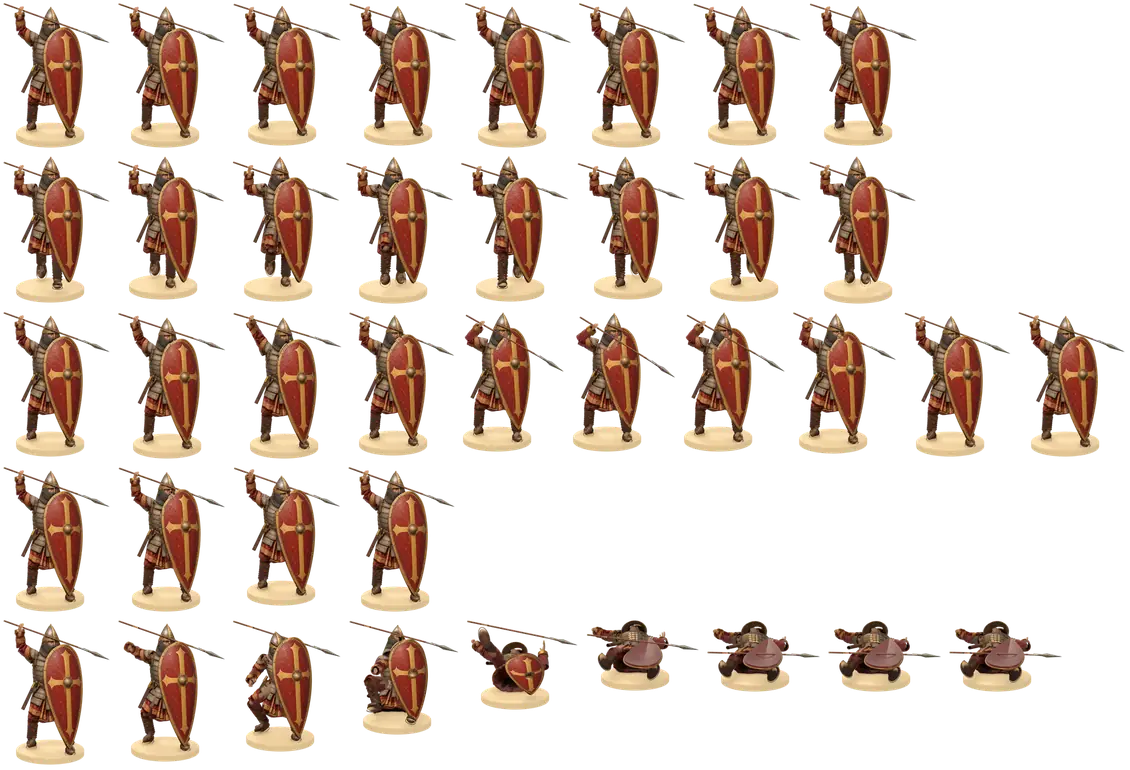
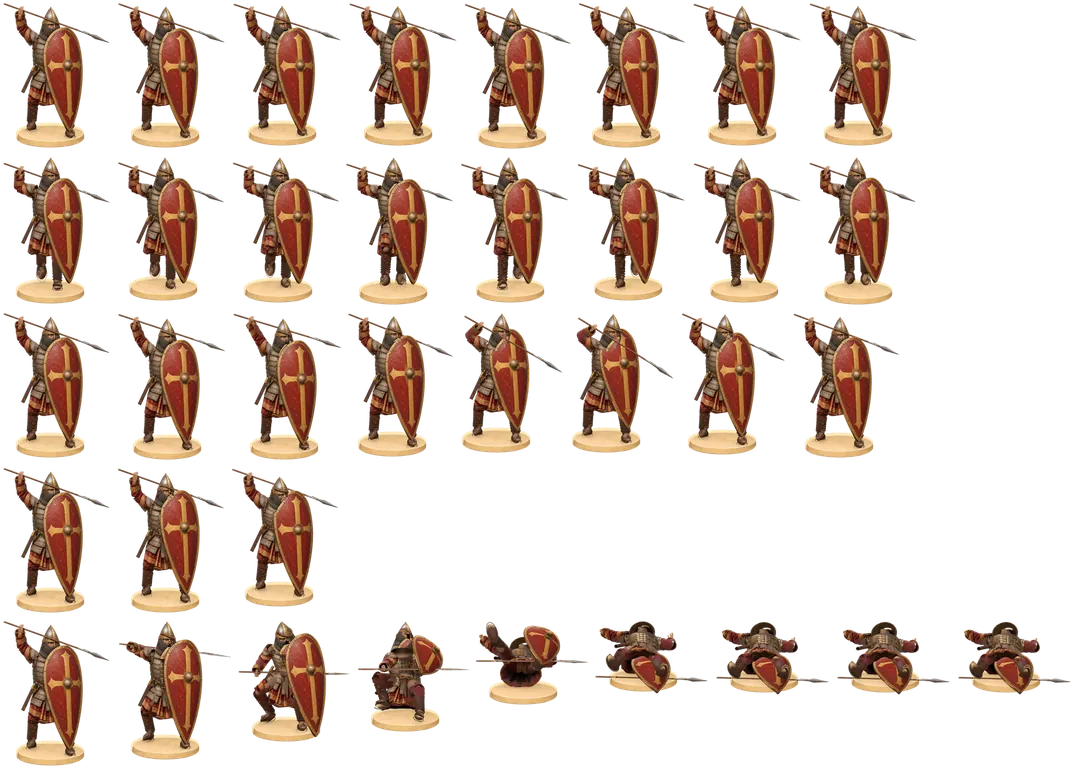
Codex task unit-anim-3d-tagmatic-soldier: work left uncommitted in the sandbox

diff --git a/tools/art/anim3d/units/tagmatic-soldier/build.py b/tools/art/anim3d/units/tagmatic-soldier/build.py
@@ -91,6 +91,18 @@ def linear(x):return x/12.92 if x<=.04045 else ((x+.055)/1.055)**2.4
 stone=mat('cream limestone E9CFA0',tuple(linear(x/255) for x in (233,207,160)),0,.85)
 
 body.data.materials.clear();body.data.materials.append(skin)
+# Keep continuous anatomical under-clothing at bent sleeve/trouser joints.
+# Real hands/head retain skin; the fitted outer garments still supply folds.
+body.data.materials.append(red);body.data.materials.append(leather)
+group_names={g.index:g.name for g in body.vertex_groups}
+for face in body.data.polygons:
+ weights={}
+ for index in face.vertices:
+  for g in body.data.vertices[index].groups:
+   name=group_names[g.group];weights[name]=weights.get(name,0)+g.weight
+ dominant=max(weights,key=weights.get) if weights else ''
+ if dominant.startswith(('upperarm','lowerarm','thigh','calf','spine','pelvis','clavicle')):face.material_index=1
+ elif dominant.startswith(('foot','ball')):face.material_index=2
 # Rest stance landmarks: rear leg braced left, near foot under pointed shield.
 limb('thigh_r','calf_r',(-.39,.17,.28),screen(88,169,.07));limb('thigh_l','calf_l',(.20,-.20,.29),screen(143,172,.15))
 for s in ['l','r']:aim('foot_'+s,(0,-1,-.12));aim('ball_'+s,(0,-1,0))
@@ -104,6 +116,17 @@ for name in ['thumb_01_r','thumb_02_r','thumb_03_r']:
 for p in rig.pose.bones:
  if p.name.endswith('_r') and any(p.name.startswith(n) for n in ['index','middle','ring','pinky']):
   p.rotation_mode='XYZ';p.rotation_euler.x=.85
+bpy.context.view_layer.update()
+# Fit the grip in depth as well as screen space before building the sleeves.
+# The old hand was 14 cm behind the shaft: invisible at rest, obvious on a fall.
+hand=rig.pose.bones['hand_r'];hand_matrix=hand.matrix.copy()
+palm=rig.matrix_world@hand.head.lerp(hand.tail,.45)
+shaft_a=screen(43,14,.27);shaft_b=screen(177,62,.27);axis=(shaft_b-shaft_a).normalized()
+grip=shaft_a+axis*(palm-shaft_a).dot(axis)
+wrist=rig.matrix_world@rig.pose.bones['lowerarm_r'].tail
+pole=rig.matrix_world@rig.pose.bones['lowerarm_r'].head
+limb('upperarm_r','lowerarm_r',wrist+D*(grip-palm).dot(D),pole)
+hand_matrix.translation=rig.pose.bones['hand_r'].head;rig.pose.bones['hand_r'].matrix=hand_matrix
 bpy.context.view_layer.update()
 for f in body.data.polygons:f.use_smooth=True
 sub=body.modifiers.new('Anatomy smoothness','SUBSURF');sub.levels=1;sub.render_levels=1
@@ -263,7 +286,20 @@ for i in range(N):fs.append((0,1+i,1+(i+1)%N))
 for j in range(L-1):
  for i in range(N):q=1+j*N+i;n=1+j*N+(i+1)%N;fs.append((q,n,n+N,q+N))
 shield=solid(mesh('convex wooden kite shield',vs,fs,red),.035);bevel(shield,.003);attach(shield,'lowerarm_l')
+shield.data.materials.append(leather)
+shield.modifiers['Physical material thickness'].material_offset=1
+shield.modifiers['Physical material thickness'].material_offset_rim=1
 shield['projection_weight']=.95
+# Real enarmes: broad, bevelled leather ribbons on the concave back. Their
+# attachment and release are part of the shield assembly, including buckles.
+for k,y in enumerate((100,140)):
+ pts=[screen(x,y,.35+.10*(1-min(1,((Vector((x,y))-center).length/90))**2)-.044-.055*sin(pi*j/12)) for j,x in enumerate([124+29*j/12 for j in range(13)])]
+ verts=[p+V*dz for p in pts for dz in (-.022,.022)]
+ strap=bevel(solid(mesh('shield back enarme '+str(k),verts,[(2*j,2*j+1,2*j+3,2*j+2) for j in range(12)],leather),.009),.003)
+ attach(strap,'lowerarm_l')
+ for j in (0,12):attach(sphere('shield back strap rivet',pts[j]-D*.006,(.007,.007,.007),gold),'lowerarm_l')
+ buckle=[pts[3]+Vector((dx,0,0))+V*dz-D*.008 for dx,dz in [(-.018,-.028),(.018,-.028),(.018,.028),(-.018,.028),(-.018,-.028)]]
+ attach(curve('shield back buckle',buckle,.004,gold),'lowerarm_l')
 rim=curve('kite shield brass rim',[screen(*p,.357) for p in edge+[edge[0]]],.011,gold);attach(rim,'lowerarm_l')
 for i in range(0,N,4):attach(sphere('shield brass nail',screen(*edge[i],.37),(.0045,.0045,.0045),gold),'lowerarm_l')
 # Raised gold cross follows the domed shield; it is the supplied painting's device.
@@ -275,6 +311,7 @@ attach(sphere('shield boss',screen(145,113,.49),(.066,.036,.080),gold),'lowerarm
 # Spear in the raised hand, the broad iron leaf faces the camera.
 start=screen(43,14,.27);socket=screen(177,62,.27);tip=screen(213,77,.27)
 shaft=curve('overhand ash spear',[start,socket],.012,wood);attach(shaft,'hand_r')
+shaft['shaft_axis_local']=json.dumps([list(shaft.matrix_world.inverted()@p) for p in (start,socket)])
 attach(curve('iron spear socket',[socket-(tip-socket)*.20,socket+(tip-socket)*.25],.015,steel),'hand_r')
 axis=(tip-socket).normalized();wide=Vector((-axis.z,0,axis.x)).normalized();centerleaf=socket.lerp(tip,.35);v=[socket,centerleaf+wide*.034,tip,centerleaf-wide*.034,centerleaf+D*.014,centerleaf-D*.014]
 f=[(0,1,4),(1,2,4),(2,3,4),(3,0,4),(1,0,5),(2,1,5),(3,2,5),(0,3,5)]
@@ -294,7 +331,7 @@ sc.render.engine='CYCLES';sc.cycles.device='CPU';sc.cycles.samples=8;sc.cycles.u
 sc.render.resolution_x=sc.render.resolution_y=256;sc.render.resolution_percentage=100;sc.render.film_transparent=True;sc.render.image_settings.file_format='PNG';sc.render.image_settings.color_mode='RGBA'
 sc.view_settings.view_transform='Standard';sc.view_settings.look='None';sc.view_settings.exposure=0
 rig['neutral_pose']=json.dumps({p.name:[list(row) for row in p.matrix_basis] for p in rig.pose.bones});rig['source']='MPFB 2.0.18 CC0 anatomy and game_engine rig'
-sc['cream_target_srgb']='#E9CFA0';sc['unit_slug']='tagmatic-soldier';sc['round']=2
+sc['cream_target_srgb']='#E9CFA0';sc['unit_slug']='tagmatic-soldier';sc['round']=3
 # The physical stone keeps live contact shadows. Pigment is camera-only: it is
 # not a lamp and contains none of the source's feet or baked cast shadows.
 n=stone.node_tree.nodes;l=stone.node_tree.links;bs=n.get('Principled BSDF')
@@ -329,6 +366,17 @@ for o in list(sc.objects):
  for mod in list(o.modifiers):
   if mod.type in {'BEVEL','SOLIDIFY','SUBSURF'}:bpy.ops.object.modifier_apply(modifier=mod.name)
 sc['finished_surface_projection']=True
+# Frozen camera UVs on the real disc preserve the painted limestone. The
+# generated top contains no feet/shadows; moving contacts use fresh scene AO.
+bpy.context.view_layer.update()
+uv=base.data.uv_layers.new(name='StoneRestUV')
+for loop in base.data.loops:
+ q=world_to_camera_view(sc,sc.camera,base.matrix_world@base.data.vertices[loop.vertex_index].co)
+ uv.data[loop.index].uv=(q.x,q.y)
+uvn=n.new('ShaderNodeUVMap');uvn.uv_map='StoneRestUV'
+tex=n.new('ShaderNodeTexImage');tex.image=bpy.data.images.load(str(A/'stone-projection.png'));tex.extension='EXTEND';l.new(uvn.outputs[0],tex.inputs['Vector'])
+plate=n.new('ShaderNodeMixRGB');l.new(tex.outputs['Alpha'],plate.inputs[0]);l.new(stonecolor.outputs[0],plate.inputs[1]);l.new(tex.outputs['Color'],plate.inputs[2]);l.new(plate.outputs[0],shade.inputs[1])
+weight.inputs[1].default_value=.97
 bpy.ops.wm.save_as_mainfile(filepath=str(M/'unpainted.blend'))
 # Freeze projected UVs at rest. Facing and ray visibility weights reject occluded/back surfaces.
 # Convert curves to meshes before projection, preserving real cross section.

diff --git a/tools/art/anim3d/units/tagmatic-soldier/deliver.py b/tools/art/anim3d/units/tagmatic-soldier/deliver.py
@@ -150,7 +150,7 @@ def validate():
 
 def video():
  meta=json.loads((OUT/f'{SLUG}.json').read_text());atlas=read(OUT/f'{SLUG}.webp');frames={c:[shrink(im,320) for im in unpack(meta,atlas,c)] for c in CLIPS}
- out=REV/f'{SLUG}-round{os.environ.get("ROUND","2")}.mp4'
+ out=REV/f'{SLUG}-round{os.environ.get("ROUND","3")}.mp4'
  proc=subprocess.Popen(['ffmpeg','-y','-loglevel','error','-f','rawvideo','-pix_fmt','rgb24','-s','1600x348','-r','30','-i','-','-an','-c:v','libx264','-threads','2','-pix_fmt','yuv420p','-crf','20','-movflags','+faststart',str(out)],stdin=subprocess.PIPE)
  for t in range(240):
   canvas=Image.new('RGBA',(1600,348),CREAM);d=ImageDraw.Draw(canvas)
@@ -162,13 +162,16 @@ def video():
  assert probe['codec_name']=='h264' and probe['pix_fmt']=='yuv420p'
  assert (probe['width'],probe['height'],int(probe['nb_frames']))==(1600,348,240)
  assert abs(float(probe['duration'])-8)<.001 and probe['r_frame_rate']=='30/1'
+ # Decode the delivered video, rather than composing a separate idealized sheet.
+ contact=out.with_name(out.stem+'-contact.png')
+ subprocess.run(['ffmpeg','-y','-loglevel','error','-i',str(out),'-vf','fps=5,scale=800:174,tile=2x5','-frames:v','1',str(contact)],check=True)
  (M/'video-validation.json').write_text(json.dumps({'file':str(out),'sha256':sha(out),'stream':probe},indent=2))
  print('VIDEO_READY',out,probe)
 
-def gpu_masters():
+def verify_masters(device,samples):
  for stage,count in [('b',3),('c',1),('d',4),('g',16)]+[('e-'+c,n) for c,(n,_,_) in CLIPS.items()]:
   folder=M/'renders'/stage;meta=json.loads((folder/'render.json').read_text())
-  assert (meta['device'],meta['engine'],meta['resolution'],meta['samples'],meta['frames'])==('GPU','CYCLES',512,48,count),(stage,'not GPU512/48')
+  assert (meta['device'],meta['engine'],meta['resolution'],meta['samples'],meta['frames'])==(device,'CYCLES',512,samples,count),(stage,f'not {device}512/{samples}')
   blend=M/'clips'/f'{stage[2:]}.blend' if stage.startswith('e-') else M/'clips/attack.blend' if stage=='d' else M/'clips/move.blend' if stage=='g' else M/('unpainted.blend' if stage=='b' else f'{SLUG}.blend')
   assert meta['blend_sha256']==sha(blend),(stage,'stale model')
   reviewed=json.loads((folder/'review.json').read_text());assert reviewed['render_sha256']==sha(folder/'render.json')
@@ -178,11 +181,14 @@ def gpu_masters():
    expected=raw if stage=='b' else graded(raw)
    assert read(M/'512'/stage/f'{i:02}.png').tobytes()==expected.tobytes(),(stage,i,'stale 512 master')
    assert read(M/'256'/stage/f'{i:02}.png').tobytes()==shrink(expected,256).tobytes(),(stage,i,'stale 256 master')
- print('GPU_MASTERS_VERIFIED',64,'images at both sizes')
+ print(device+'_MASTERS_VERIFIED',64,'images at both sizes; samples',samples)
+
+def gpu_masters():
+ verify_masters('GPU',48)
 
 def receipt():
  gpu_masters();validate()
- proof={'round':os.environ.get('ROUND','2'),'model_sha256':sha(M/f'{SLUG}.blend'),'atlas_sha256':sha(OUT/f'{SLUG}.webp'),'validation':json.loads((M/'validation.json').read_text()),'geometry':json.loads((M/'geometry-audit.json').read_text()),'video':json.loads((M/'video-validation.json').read_text()),'art_approved':False}
+ proof={'round':os.environ.get('ROUND','3'),'model_sha256':sha(M/f'{SLUG}.blend'),'atlas_sha256':sha(OUT/f'{SLUG}.webp'),'validation':json.loads((M/'validation.json').read_text()),'geometry':json.loads((M/'geometry-audit.json').read_text()),'video':json.loads((M/'video-validation.json').read_text()),'art_approved':False}
  (REV/f'{SLUG}-gpu-round{proof["round"]}.json').write_text(json.dumps(proof,indent=2))
 
 if __name__=='__main__':
@@ -192,4 +198,5 @@ if __name__=='__main__':
  elif command=='validate':validate()
  elif command=='video':video()
  elif command=='gpu-masters':gpu_masters()
+ elif command=='cpu-masters':verify_masters('CPU',8)
  elif command=='receipt':receipt()

diff --git a/tools/art/anim3d/units/tagmatic-soldier/animate.py b/tools/art/anim3d/units/tagmatic-soldier/animate.py
@@ -23,7 +23,7 @@ for clip,(count,fps,loop) in CLIPS.items():
  knees={s:rig.matrix_world@rig.pose.bones['calf_'+s].head for s in ['r','l']}
  wrists={s:rig.matrix_world@rig.pose.bones['lowerarm_'+s].tail for s in ['r','l']}
  spear=[o for o in sc.objects if o.name.startswith(('GEO-overhand ash','GEO-iron spear socket','GEO-forged iron spear'))]
- shieldprops=[o for o in sc.objects if o.name.startswith(('GEO-convex wooden kite','GEO-kite shield','GEO-shield brass','GEO-vertical cross','GEO-horizontal cross','GEO-shield boss'))]
+ shieldprops=[o for o in sc.objects if o.name.startswith(('GEO-convex wooden kite','GEO-kite shield','GEO-shield brass','GEO-vertical cross','GEO-horizontal cross','GEO-shield boss','GEO-shield back'))]
  rigidfloor=[o for o in sc.objects if o.name.startswith(('GEO-lamellar skirt panel','GEO-leather scabbard','GEO-sword brass throat'))]
  props=spear+shieldprops+rigidfloor
  clothfloor=[o for o in sc.objects if o.name.startswith(('GEO-folded red tunic skirt','GEO-tunic gold embroidered hem'))]
@@ -75,21 +75,22 @@ for clip,(count,fps,loop) in CLIPS.items():
   if clip=='death':
    # Free-fall from the last held world pose, accelerating to the stone.
    # Apply after root contact so released equipment never follows root corrections.
-   if i==0:
-    release_world.update({o.name:o.matrix_world.copy() for o in spear+shieldprops})
-   d=min(1,(i/6)**2)
-   spearcenter=Vector((-.1,-.15,2.03));target=Vector((-.10,-.40,.29))
-   landing=Matrix.Translation(target)@Matrix.Rotation(-.33,4,'Y')@Matrix.Translation(-spearcenter)
-   delta=(release_world[spear[0].name]@prop_world[spear[0].name].inverted()).lerp(landing,d)
-   for o in spear:o.matrix_world=delta@prop_world[o.name]
-   d=min(1,(i/5)**2)
-   center=Vector((.10,-.45,1.05));target=Vector((.02,-.28,.25))
-   landing=Matrix.Translation(target)@Matrix.Rotation(1.85,4,'X')@Matrix.Translation(-center)
-   delta=(release_world[shieldprops[0].name]@prop_world[shieldprops[0].name].inverted()).lerp(landing,d)
-   for o in shieldprops:o.matrix_world=delta@prop_world[o.name]
+   # Carry through the initial loss of balance, then release from that actual
+   # hand pose. Previously props detached at frame one and hovered for 0.6 s.
+   for group,release,land,pivot,target,angle,axis in [
+    (spear,2,5,Vector((-.1,-.15,2.03)),Vector((-.10,-.40,.29)),-.33,'Y'),
+    (shieldprops,3,5,Vector((.10,-.45,1.05)),Vector((.02,-.28,.25)),-1.20,'X')]:
+    if i<=release:release_world.update({o.name:o.matrix_world.copy() for o in group})
+    else:
+     d=min(1,((i-release)/(land-release))**2)
+     release_delta=release_world[group[0].name]@prop_world[group[0].name].inverted()
+     center=(release_delta@pivot).lerp(target,d)
+     rotation=release_delta.to_quaternion().slerp(Matrix.Rotation(angle,4,axis).to_quaternion(),min(1,(i-release)/(land-release)))
+     delta=Matrix.Translation(center)@rotation.to_matrix().to_4x4()@Matrix.Translation(-pivot)
+     for o in group:o.matrix_world=delta@prop_world[o.name]
    bpy.context.view_layer.update()
    for group in [spear,shieldprops]:
-    low=min((o.matrix_world@Vector(v)).z for o in group for v in o.bound_box)
+    low=min((o.matrix_world@v.co).z for o in group for v in o.data.vertices)
     if low<.178:
      for o in group:
       m=o.matrix_world.copy();m.translation.z+=.178-low;o.matrix_world=m

diff --git a/tools/art/anim3d/units/tagmatic-soldier/audit.py b/tools/art/anim3d/units/tagmatic-soldier/audit.py
@@ -20,11 +20,17 @@ for clip in ([os.environ['AUDIT_CLIP']] if os.environ.get('AUDIT_CLIP') else ['i
  # Relative transforms certify released ornaments remain one rigid assembly.
  sc.frame_set(frames[0]);bpy.context.view_layer.update()
  assemblies=[]
- for prefixes in [('GEO-overhand ash','GEO-iron spear socket','GEO-forged iron spear'),('GEO-convex wooden kite','GEO-kite shield','GEO-shield brass','GEO-vertical cross','GEO-horizontal cross','GEO-shield boss')]:
+ for prefixes in [('GEO-overhand ash','GEO-iron spear socket','GEO-forged iron spear'),('GEO-convex wooden kite','GEO-kite shield','GEO-shield brass','GEO-vertical cross','GEO-horizontal cross','GEO-shield boss','GEO-shield back')]:
   group=[o for o in sc.objects if o.name.startswith(prefixes)];reference=group[0]
   assemblies.append((reference,[(o,reference.matrix_world.inverted()@o.matrix_world) for o in group[1:]]))
  for fr in frames:
   sc.frame_set(fr);bpy.context.view_layer.update();dg=bpy.context.evaluated_depsgraph_get();cam_inv=sc.camera.matrix_world.inverted();span=sc.camera.data.ortho_scale;xs=[];ys=[];zmin=99;culprits=[];feet={};directions={}
+  shaft=bpy.data.objects['GEO-overhand ash spear']
+  a,b=[shaft.matrix_world@Vector(p) for p in json.loads(shaft['shaft_axis_local'])]
+  hand=rig.pose.bones['hand_r'];palm=rig.matrix_world@hand.head.lerp(hand.tail,.45)
+  axis=(b-a).normalized();nearest=a+axis*max(0,min((b-a).length,(palm-a).dot(axis)))
+  grip_distance=(palm-nearest).length
+  if clip!='death' or fr<=3:assert grip_distance<.055,(clip,fr,'detached grip',grip_distance)
   assert all(abs(base.matrix_world[i][j]-base_mat[i][j])<1e-7 for i in range(4) for j in range(4))
   for reference,parts in assemblies:
    for ob,expected in parts:
@@ -40,7 +46,7 @@ for clip in ([os.environ['AUDIT_CLIP']] if os.environ.get('AUDIT_CLIP') else ['i
     forward=ev.matrix_world.to_3x3()@Vector((0,-1,0));directions[o.name]={'yaw_degrees':round(math.degrees(math.atan2(forward.x,-forward.y)),3),'sole_min_z':round(low,5)}
    ev.to_mesh_clear();xs.extend([xmin,xmax]);ys.extend([ymin,ymax]);zmin=min(zmin,low) if o!=base else zmin
    if xmin<.005 or ymin<.005 or xmax>.995 or ymax>.995 or (o!=base and low<.165):culprits.append({'object':o.name,'bbox':[round(x*256,1) for x in [xmin,1-ymax,xmax,1-ymin]],'min_z':round(low,3)})
-  bounds.append({'frame':fr,'bbox256':[round(x*256,1) for x in [min(xs),1-max(ys),max(xs),1-min(ys)]],'min_z':round(zmin,3),'suspects':culprits,'shoe_min_z':feet,'feet_direction':directions})
+  bounds.append({'frame':fr,'grip_distance':round(grip_distance,5),'bbox256':[round(x*256,1) for x in [min(xs),1-max(ys),max(xs),1-min(ys)]],'min_z':round(zmin,3),'suspects':culprits,'shoe_min_z':feet,'feet_direction':directions})
  records[clip]={'stationary_base':True,'samples':bounds};print(clip,[(b['bbox256'],b['min_z']) for b in bounds],flush=True)
 (M/('geometry-audit-'+os.environ['AUDIT_CLIP']+'.json' if os.environ.get('AUDIT_CLIP') else 'geometry-audit.json')).write_text(json.dumps(records,indent=2))
 failures=[]

diff --git a/tools/art/anim3d/units/tagmatic-soldier/prepare.py b/tools/art/anim3d/units/tagmatic-soldier/prepare.py
@@ -5,7 +5,7 @@ import json, hashlib, os
 ROOT=Path(os.environ.get('ANIM_ROOT',str(Path.home()/'LegatumRuns/anim-pilot')))
 A=ROOT/'assets/tagmatic-soldier'; A.mkdir(parents=True,exist_ok=True)
 lock=json.loads(Path(__file__).with_name('assets.lock.json').read_text())
-for key in ['painting','painted_fills']:
+for key in ['painting','painted_fills','stone_fill']:
  entry=lock[key];path=A/entry['file']
  assert hashlib.sha256(path.read_bytes()).hexdigest()==entry['sha256'],f'Changed input: {path}'
 for name,digest in lock['motion']['files'].items():
@@ -15,6 +15,14 @@ ref=Image.open('app/src/assets/units/tagmatic-soldier-256.png').convert('RGBA')
 b=ref.getchannel('A').getbbox(); p=src.crop(src.getchannel('A').getbbox())
 p=p.resize(((b[2]-b[0])*4,(b[3]-b[1])*4),Image.Resampling.LANCZOS)
 out=Image.new('RGBA',(1024,1024));out.paste(p,(b[0]*4,b[1]*4));out.save(A/'painting-aligned.png')
+# Register the generated clean plate to the original stone, not its changed
+# canvas. Preserve the original unoccluded lower rim. Alpha never cuts geometry.
+plate=Image.open(A/'stone-fill-source.png').convert('RGBA')
+bounds=plate.getchannel('A').point(lambda x:255 if x>160 else 0).getbbox()
+plate=plate.crop(bounds).resize((432,140),Image.Resampling.LANCZOS)
+clean=Image.new('RGBA',(1024,1024));clean.paste(plate,(256,836))
+clean.paste(out.crop((256,934,688,976)),(256,934))
+clean.save(A/'stone-projection.png')
 im=Image.open(A/'painted-fills.png').convert('RGB');w,h=im.size
 for name,box in zip(['cloth','steel','leather','gold'],[(0,0,w//2,h//2),(w//2,0,w,h//2),(0,h//2,w//2,h),(w//2,h//2,w,h)]):
  im.crop(box).resize((512,512),Image.Resampling.LANCZOS).save(A/f'fill-{name}.png')

diff --git a/tools/art/anim3d/PLAYBOOK.md b/tools/art/anim3d/PLAYBOOK.md
@@ -264,3 +264,34 @@ the trimmed 160 atlas, validates exact alpha/offset reconstruction and held deat
 encodes the trim-aware round MP4, verifies ffprobe output, and writes a receipt
 with `art_approved: false`. It never creates PASS automatically. Inspect the
 GPU result at 256 and 64 before art approval.
+
+
+### Tagmatic round 3: grip depth, stone pigment and released equipment
+
+The round-2 GPU pass completed at 187,990 bytes/Q75; its visual critique exposed
+plain limestone and a disconnected-looking death. A matched 2D grip had hidden
+a roughly 14 cm depth gap. Fit the real wrist along the camera depth axis before
+building sleeves or freezing UVs, then audit palm-to-shaft distance in every held
+sample. Painting alignment alone cannot certify a physical grip.
+
+The stone now projects a registered generated clean plate on its full-depth
+bevelled disc. `stone-fill.prompt.txt` and `assets.lock.json` pin the source edit;
+the generated top removes the soldier and shadows, the original unobscured lower
+rim retains its exact pigment. Live AO supplies new contacts. This texture never
+cuts the silhouette or replaces geometry. One automatic hashed rest grade still
+applies to all clips. Standard/None preserves existing painted illumination.
+
+The shield has a leather back material, solid bevelled enarmes, rivets and buckles.
+All belong to the same rigid release assembly. Continuous MPFB under-clothing
+keeps exposed bent sleeve/trouser joints from reverting to skin. Death carries
+props through the initial loss of balance, then releases from their actual held
+poses. Interpolate the assembly centre and quaternion separately; interpolating
+world transform translations can create an unwanted orbital arc. Use actual
+mesh vertices for ground clearance: a rotated bounding box can spuriously lift
+a thin shield above the stone. This remains an authored equipment landing and
+modelled cloth contact, not a rigid-body or cloth simulation.
+
+`gpu.sh` defaults to ROUND=3 and rebuilds everything from the pinned inputs. It
+retains GPU512/48 and 256 masters, all interim sheets, feet diagnostics, trimmed
+160 atlas, alpha/offset/motion validation and the eight-second trim-aware MP4.
+A technical receipt leaves art_approved false; only visual review can create PASS.

diff --git a/tools/art/anim3d/units/tagmatic-soldier/README.md b/tools/art/anim3d/units/tagmatic-soldier/README.md
@@ -1,17 +1,19 @@
-# Tagmatic Soldier — round 2 candidate
+# Tagmatic Soldier — round 3 candidate
 
 This folder owns this unit's build, rendering, review and atlas delivery. See its
 infantry chapter in `../../PLAYBOOK.md`. Run commands from the repository root.
 
 The sole GPU entry point is `tools/art/anim3d/units/tagmatic-soldier/gpu.sh`.
 It writes the editable external masters in
-`~/LegatumRuns/anim-pilot/masters/tagmatic-soldier/`. `ROUND` defaults to 2. It rebuilds and rebakes from pinned inputs before rendering.
+`~/LegatumRuns/anim-pilot/masters/tagmatic-soldier/`. `ROUND` defaults to 3. It rebuilds and rebakes from pinned inputs before rendering.
 
 Inputs stay in `~/LegatumRuns/anim-pilot/assets/tagmatic-soldier/`:
 
 - `painting-source.png`: the archived project painting (CC BY 4.0).
 - `painted-fills.png`: original generated cloth/steel/leather/brass fills
   (CC BY 4.0); prompt in `fills.prompt.txt`.
+- `stone-fill-source.png`: generated clean limestone plate (CC BY 4.0),
+  with prompt in `stone-fill.prompt.txt` and SHA256 in the lockfile.
 - The installed MPFB 2.0.18 CC0 body/rig and MakeHuman system eyes under the shared
   isolated Blender resource directory. No new model or motion download.
 
@@ -75,3 +77,9 @@ modelled folds with authored contact keys.
 this stage and validates all 64 GPU512/48 images and their 256 derivatives. Its
 render receipt is technical evidence, not an art approval. CPU previews retain
 their device labels and must not be called GPU finals.
+
+Round 3 fits the actual spear grip in depth, adds a leather shield back and
+bevelled straps/buckles, uses a registered clean stone plate with live contact AO,
+and lands released equipment using assembly-centre rotation and actual mesh
+clearance. Geometry audits now reject detached held grips. See the round-three
+playbook chapter and external running log for the visual verdict and checks.

diff --git a/tools/art/anim3d/units/tagmatic-soldier/SOURCES.md b/tools/art/anim3d/units/tagmatic-soldier/SOURCES.md
@@ -6,3 +6,7 @@
 - Quaternius Universal Animation Library Standard, 2025-06-10: https://quaternius.com/packs/universalanimationlibrary.html ; CC0-1.0. Immutable mirror https://raw.githubusercontent.com/J-Ponzo/gltf-universal-animation-library/e24c23cf2a1323488a3faa226ea7ea21f644b73e/glTF/AnimationLibrary_Godot_Standard.gltf and adjacent `.bin`. Local licence and exact hashes in `assets.lock.json`. Idle_Loop, Walk_Loop, Hit_Chest, Death01; Blender reference/roll compensated constraints. No post-retarget foot orientation patch.
 - Retarget helper adapted from the project's trench-infantry lane (MIT), after source inspection. Fitted sole calibration is unit-specific. Original weapon attack and released equipment; modelled contact folds are not a cloth simulation.
 - Existing Blender 5.3.0 (GPL software), Pillow 13.0.0 (MIT-CMU), FFmpeg. No paid services, new downloads or accounts. Assets and masters remain under `~/LegatumRuns/anim-pilot/`.
+
+## Tagmatic Soldier round 3, 2026-11-23
+- Clean stone plate: built-in ImageGen 01a20a32-9e25-7523-ac44-b9a65d8e7a8a/exec-9de37520-944b-4f6a-9337-55ea2a721b22.png, original project CC BY 4.0, no public URL. Input is the recorded Tagmatic painting. External assets/tagmatic-soldier/stone-fill-source.png; prompt and SHA256 in unit scripts. Registered generated top with original lower rim, projected onto real beveled stone with live AO.
+- Reuses pinned painting/generated cloth/steel/leather/brass fills, MPFB CC0 anatomy and Quaternius CC0 motion. Original leather shield backing, thick straps, geometric contact/release and GPU handoff: MIT scripts / CC BY 4.0 renders.
